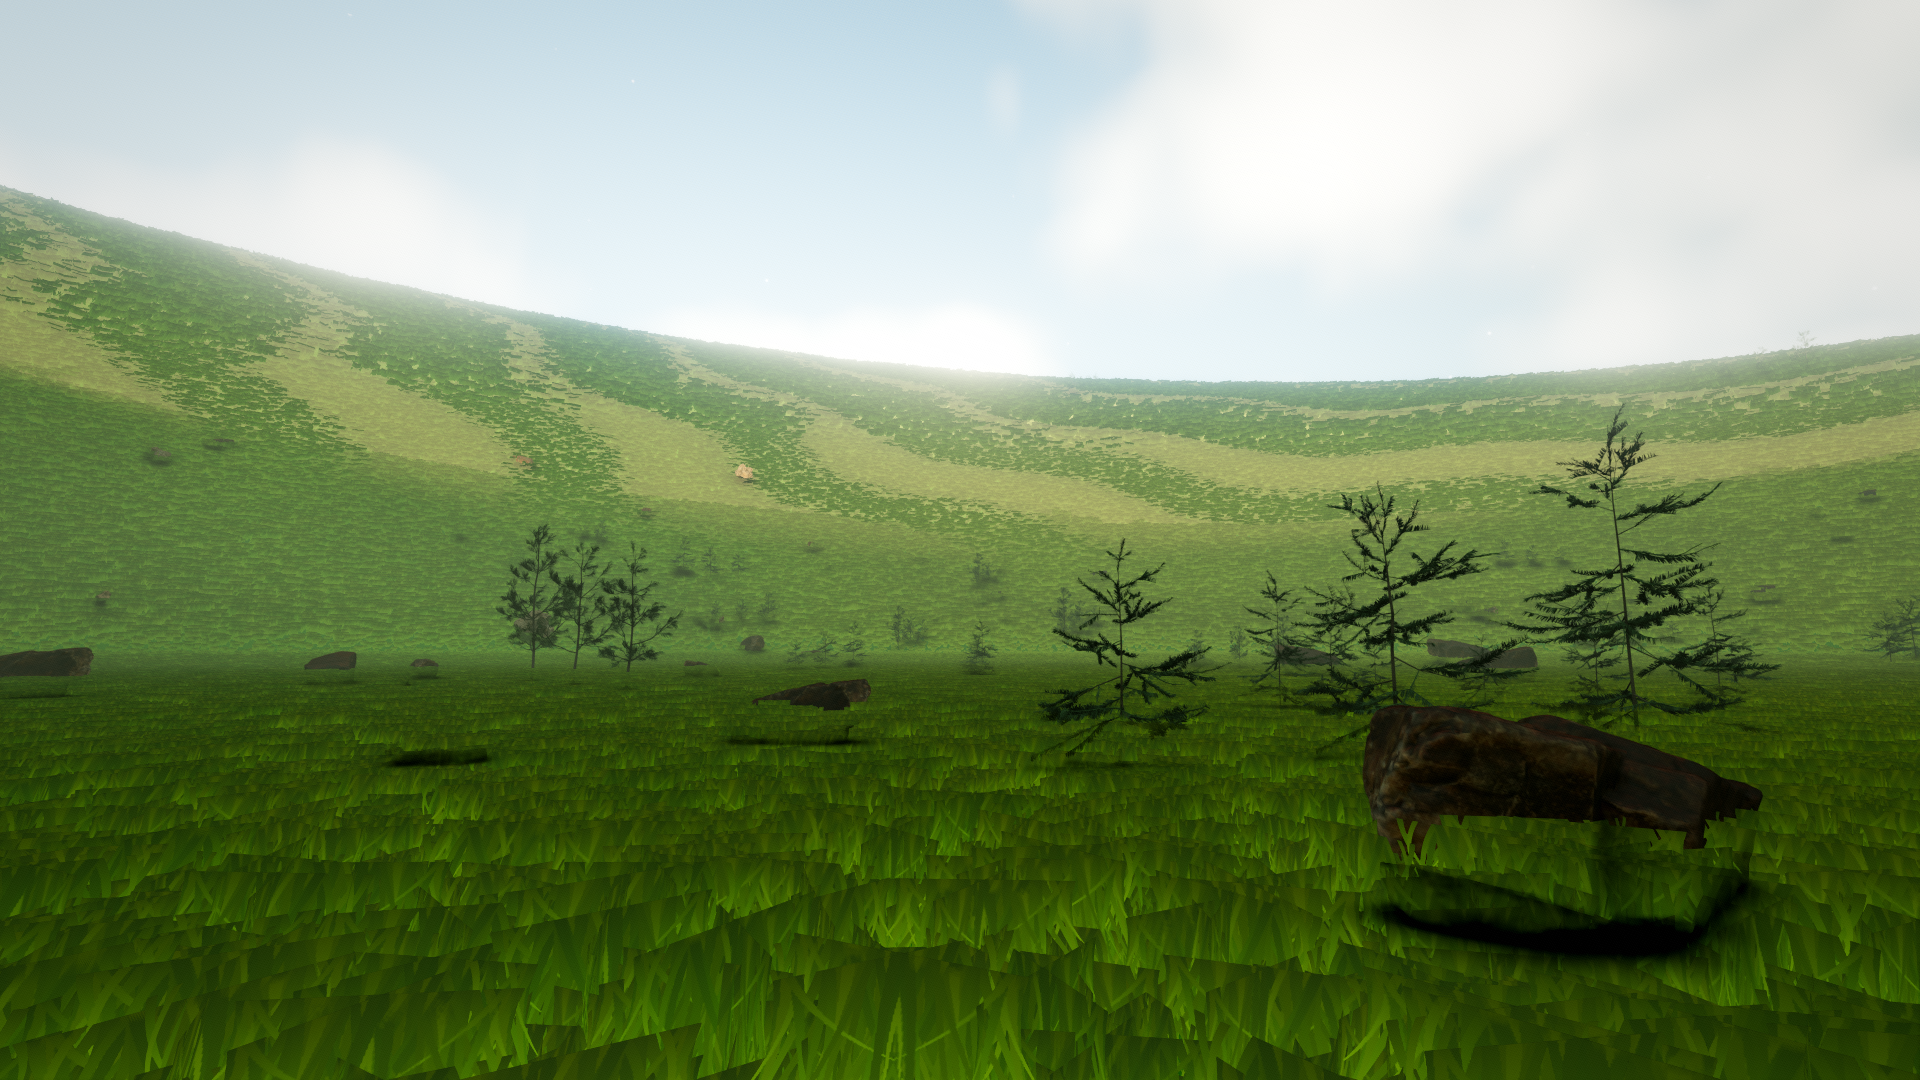
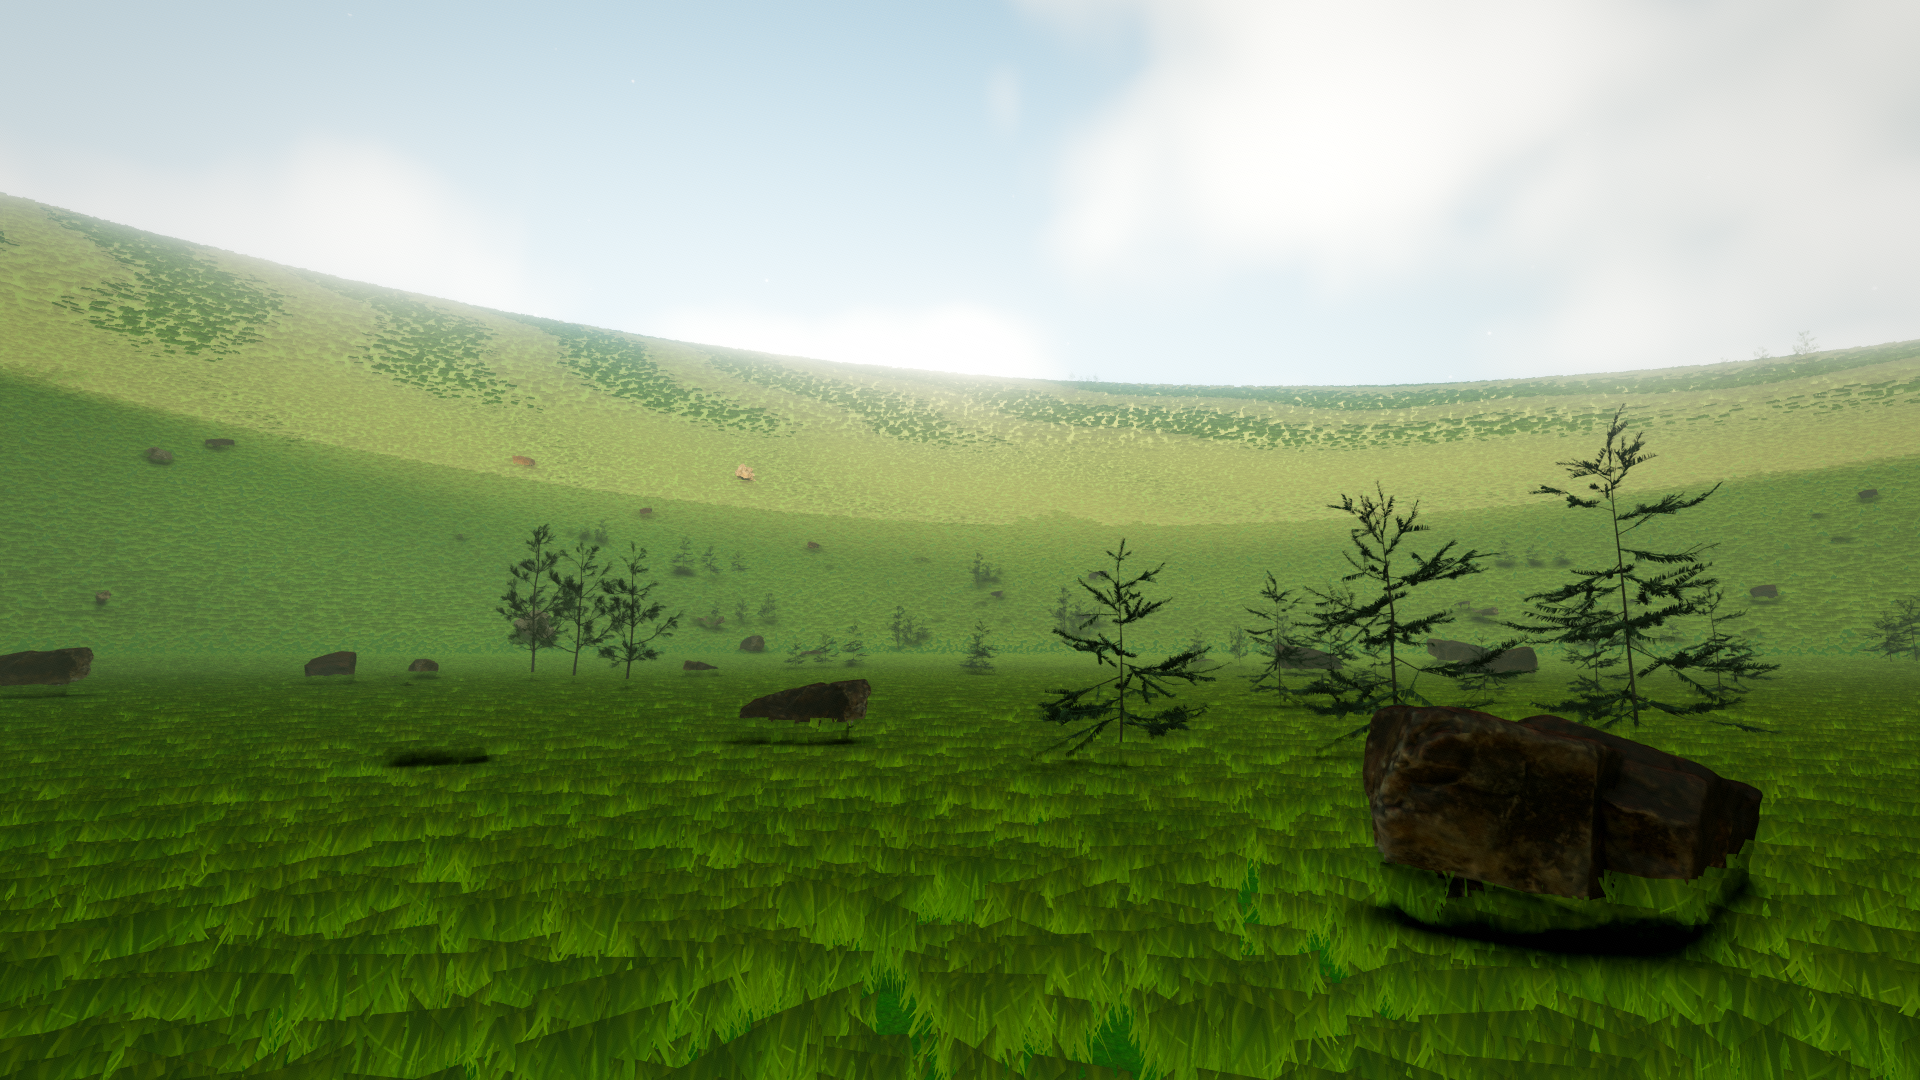
Update from the development tree

diff --git a/tools/build_gfx_highlands.py b/tools/build_gfx_highlands.py
@@ -1,0 +1,105 @@
+"""Pictures of a landscape made by Tellus (examples/gfx_lab/highlands_*.png): 8 km of rolling highlands cut by rivers, forests in the valleys and a lake, lit by a low golden sun through the renderer's air, with
+the clouds' slab, soft shadows, bounced light and haze that gives the distance its depth.
+
+    tellus export template:highlands --res 1025 --engine examples/gfx_lab/highlands --prefix examples/gfx_lab/highlands/ --scene examples/gfx_lab/highlands.lunaris.json
+    python3 tools/build_gfx_highlands.py      (the scene and its pictures are not committed: about 14 MB)
+"""
+import json
+import math
+import os
+import subprocess
+
+BIN = os.environ.get("LUNARIS_BIN", "target/release/lunaris")
+W, H = int(os.environ.get("W", "1920")), int(os.environ.get("H", "1080"))
+proc = subprocess.Popen([BIN, "serve", "--root", "."], stdin=subprocess.PIPE, stdout=subprocess.PIPE, text=True, bufsize=1)
+n = 0
+
+
+def call(name, args=None):
+    global n
+    n += 1
+    proc.stdin.write(json.dumps({"jsonrpc": "2.0", "id": n, "method": "tools/call", "params": {"name": name, "arguments": args or {}}}) + chr(10))
+    proc.stdin.flush()
+    while True:
+        m = json.loads(proc.stdout.readline())
+        if m.get("id") == n:
+            break
+    res = m.get("result") or {}
+    if res.get("isError"):
+        print(name, "FAILED", json.dumps(m)[:300])
+    for c in res.get("content") or []:
+        if c.get("type") == "text":
+            try:
+                return json.loads(c["text"])
+            except ValueError:
+                return {}
+    return {}
+
+
+def quat(yaw, pitch):
+    sy, cy = math.sin(math.radians(yaw) / 2), math.cos(math.radians(yaw) / 2)
+    sp, cp = math.sin(math.radians(pitch) / 2), math.cos(math.radians(pitch) / 2)
+    return [cy * sp, sy * cp, -sy * sp, cy * cp]
+
+
+call("load_scene", {"path": "examples/gfx_lab/highlands.lunaris.json"})
+sun = [e["uid"] for e in call("query", {"with": ["Light"], "select": ["Light"]}).get("entities", []) if (e.get("components") or {}).get("Light", {}).get("kind") == 0][0]
+elevation = float(os.environ.get("SUN", "15"))
+call("set", {"uid": sun, "component": "Transform", "value": {"rot": quat(215.0, -elevation)}})
+call("set", {"uid": sun, "component": "Light", "value": {"intensity": 3.6, "color": [1.0, 0.93, 0.8]}})
+env = [e["uid"] for e in call("query", {"with": ["Environment"], "select": []}).get("entities", [])][0]
+call("set", {"uid": env, "component": "Environment", "value": {"sky": True, "clouds": 0.5, "fog": 0.00002, "ssao": 1.0, "bloom": 0.4, "bloom_threshold": 0.95, "vignette": 0.2, "saturation": 1.05, "tonemap": 1, "shadow_distance": 3500, "ambient": 1.0, "exposure": 1.0}})
+for uid, comps in (
+    (900, {"Atmosphere": {"turbidity": 2.4, "haze_glow": 2.0, "intensity": 1.0}}),
+    (901, {"Shadows": {"softness": 0.03}}),
+    (902, {"GlobalIllumination": {"intensity": 0.8, "radius": 40.0, "directions": 10}}),
+    (903, {"AutoExposure": {"min": 0.25, "max": 3.0, "speed": 3.0, "target": 0.3}}),
+    (904, {"PostFx": {"shafts": 0.4, "contrast": 1.05, "grain": 0.08}}),
+):
+    call("spawn", {"uid": uid, "components": comps})
+# the ground gets close detail: Poly Haven's grass, rock and soil photographs blended by Tellus's own splat map (R grass and forest, G rock and scree, B soil, A snow), and the water follows the build's water picture
+# (every lake and river, at its own level) instead of the flat sheets of the export
+tid = [e["uid"] for e in call("query", {"with": ["Terrain"], "select": []}).get("entities", [])][0]
+got = call("get", {"uid": tid, "components": ["Terrain", "Transform"]}).get("components", {})
+terrain = dict(got["Terrain"])
+terrain.update({"texture": "", "color": [1, 1, 1, 1]})
+call("despawn", {"uid": tid})
+T = "examples/hollowlight/textures"
+layers = "\n".join((
+    f"grass {T}/sparse_grass/sparse_grass_diff.jpg uv_scale=1400 tint=0.7,0.95,0.55",
+    f"rock {T}/aerial_grass_rock/aerial_grass_rock_diff.jpg uv_scale=700 tint=0.8,0.8,0.78",
+    f"soil {T}/grass_ground/grass_ground_diff.jpg uv_scale=900 tint=0.85,0.7,0.5",
+    f"snow {T}/withered_grass/withered_grass_diff.jpg uv_scale=600 tint=1.6,1.6,1.7",
+))
+call("spawn", {"uid": tid, "components": {"Transform": got["Transform"], "Terrain": terrain, "TerrainLayers": {"splat": "examples/gfx_lab/highlands/splat.png", "layers": layers}}})
+for e in call("query", {"with": ["Water"], "select": []}).get("entities", []):
+    call("despawn", {"uid": e["uid"]})
+call("spawn", {"uid": 950, "components": {"Transform": {"pos": [0.0, 0.0, 0.0]}, "WaterBody": {"heightmap": "examples/gfx_lab/highlands/water.png", "size": [8000.0, 8000.0], "relief": 1100.0, "color": [0.03, 0.2, 0.28, 0.9], "wave_height": 0.1, "wave_length": 14, "speed": 0.8},
+                                            "WaterLook": {"clarity": 3.5, "shallow": [0.3, 0.62, 0.55], "foam": 0.5, "foam_width": 0.8}}})
+call("reload_terrain", {})
+cam = [e["uid"] for e in call("query", {"with": ["Camera"], "select": []}).get("entities", [])][0]
+call("set", {"uid": cam, "component": "Camera", "value": {"fov_y": 60.0, "far": 30000.0}})
+lake = [269.53125, 224.86, -1171.875]  # the big lake of this build (its sheet in the export)
+print("lake at", lake)
+
+
+def ground(x, z):
+    return call("terrain_height", {"x": x, "z": z}).get("height", 0.0)
+
+
+call("step", {"ticks": 5})
+shots = []
+# a ridge above the lake looking down the valley, the lake itself, and a high view over the whole range
+ex, ez = lake[0] + 900.0, lake[2] + 700.0
+shots.append(("valley", [ex, ground(ex, ez) + 60.0, ez], [lake[0], lake[1], lake[2]], 62))
+lx, lz = lake[0] - 260.0, lake[2] + 260.0
+shots.append(("lake", [lx, max(ground(lx, lz), lake[1]) + 9.0, lz], [lake[0] + 120.0, lake[1] + 25.0, lake[2] - 120.0], 58))
+hx, hz = -2400.0, 3000.0
+shots.append(("ridge", [hx, ground(hx, hz) + 500.0, hz], [500.0, 300.0, -500.0], 66))
+for name, eye, target, fov in shots:
+    if name not in os.environ.get("ONLY", "valley,lake,ridge").split(","):
+        continue
+    r = call("render", {"quality": "ultra", "width": W, "height": H, "eye": eye, "target": target, "fov": fov, "path": f"highlands_{name}.png", "image": False})
+    print(name, r.get("renderer"), r.get("warnings"), r.get("measured"), (r.get("timing_ms") or {}).get("total"))
+proc.stdin.close()
+proc.wait(timeout=120)

diff --git a/crates/lunaris-sim/src/floaters_tests.rs b/crates/lunaris-sim/src/floaters_tests.rs
@@ -200,3 +200,33 @@ fn characters_swim_in_a_water_sheet_that_is_swimmable_and_walk_through_one_that_
         }
     }
 }
+
+#[test]
+fn floaters_ride_the_water_of_a_picture_and_not_the_dry_bank() {
+    use crate::png::tests::make_png;
+    // 33 x 33 samples: a bowl in the middle of a 64 m terrain (10 m of relief, 6 m at the rim) with a lake at 3 m within 8 samples of the middle
+    let radius = |x: usize, z: usize| (((x as f32 - 16.0).powi(2) + (z as f32 - 16.0).powi(2)).sqrt());
+    let dir = std::env::temp_dir().join(format!("lunaris-floaters-{}", std::process::id()));
+    let _ = std::fs::remove_dir_all(&dir);
+    std::fs::create_dir_all(&dir).unwrap();
+    let bowl: Vec<u16> = (0..33 * 33).map(|i| (0.6 * (radius(i % 33, i / 33) / 16.0).min(1.0) * 65535.0) as u16).collect();
+    let lake: Vec<u16> = (0..33 * 33).map(|i| if radius(i % 33, i / 33) <= 8.0 { (0.3 * 65535.0) as u16 } else { 0 }).collect();
+    std::fs::write(dir.join("bowl.png"), make_png(33, 33, 16, 0, 4, &bowl)).unwrap();
+    std::fs::write(dir.join("lake.png"), make_png(33, 33, 16, 0, 4, &lake)).unwrap();
+    let mut s = Sim::new(1);
+    s.threads = 1;
+    s.asset_root = Some(dir.clone());
+    spawn(&mut s, 1, r#"{"Transform":{"pos":[0,0,0]},"Terrain":{"heightmap":"bowl.png","size":[64,64],"height":10}}"#);
+    spawn(&mut s, 2, r#"{"Transform":{"pos":[0,0,0]},"WaterBody":{"heightmap":"lake.png","size":[64,64],"relief":10,"wave_height":0,"speed":0}}"#);
+    // a crate of density 500 dropped over the lake, and one over the east bank (dry)
+    spawn(&mut s, 10, &cube(500.0, 6.0).replace("[0,6,0]", "[2,6,0]"));
+    spawn(&mut s, 11, &cube(500.0, 9.0).replace("[0,9,0]", "[28,9,0]"));
+    s.step_n(360);
+    // half under: the middle of the crate at the lake's surface, 3 m
+    assert!((pos(&s, 10)[1] - 3.0).abs() < 0.15, "{:?}", pos(&s, 10));
+    assert!((floater(&s, 10).submerged - 0.5).abs() < 0.12);
+    // the one over the bank never touched water: it lies on the ground (the rim, 5 m up and more) and nothing lifted it
+    assert_eq!(floater(&s, 11).submerged, 0.0);
+    assert!(pos(&s, 11)[1] > 5.0 && pos(&s, 11)[1] < 6.5, "{:?}", pos(&s, 11));
+    let _ = std::fs::remove_dir_all(&dir);
+}

diff --git a/tools/build_gfx_showcase.py b/tools/build_gfx_showcase.py
@@ -66,7 +66,7 @@ for uid, comps in (
     call("spawn", {"uid": uid, "components": comps})
 # a plain that looks like grass in a photograph: a deep natural green that goes to straw in patches, not the lime of the texture's own colour
 for e in call("query", {"with": ["GrassField"], "select": []}).get("entities", []):
-    call("set", {"uid": e["uid"], "component": "GrassField", "value": {"color_a": [0.5, 0.66, 0.38], "color_b": [0.95, 0.82, 0.52], "patch_size": 90.0, "density": 12.0}})
+    call("set", {"uid": e["uid"], "component": "GrassField", "value": {"color_a": [0.5, 0.66, 0.38], "color_b": [0.95, 0.82, 0.52], "patch_size": 90.0, "density": 14.0, "size": [0.4, 0.8]}})
 # trees and stones on the plain, so that the sun has something to throw shadows with and the haze something to hide: Poly Haven's CC0 models when `tools/fetch_polyhaven_model.py` and
 # `tools/prepare_polyhaven_models.py` have been run (young conifers in threes, boulders, stones, a fallen trunk), the low-poly pine of the caldera example otherwise
 ground = [e["uid"] for e in call("query", {"with": ["Terrain"], "select": []}).get("entities", [])][0]

diff --git a/crates/lunaris-gpu/src/renderer.rs b/crates/lunaris-gpu/src/renderer.rs
@@ -1478,7 +1478,7 @@ impl GpuRenderer {
                     mat: [32.0, 0.0, 0.0, 0.92],
                     misc: [1.0, 1.0, if tex.is_some() { 1.0 } else { 0.0 }, 1.0],
                     uvrect: [0.0, 0.0, 1.0, 1.0],
-                    ids: [0, 0, 0, 0],
+                    ids: [0, 3, 0, 0],
                     pbr: [0.0; 4],
                 });
                 let slot = (objects.len() - 1) as f32;
